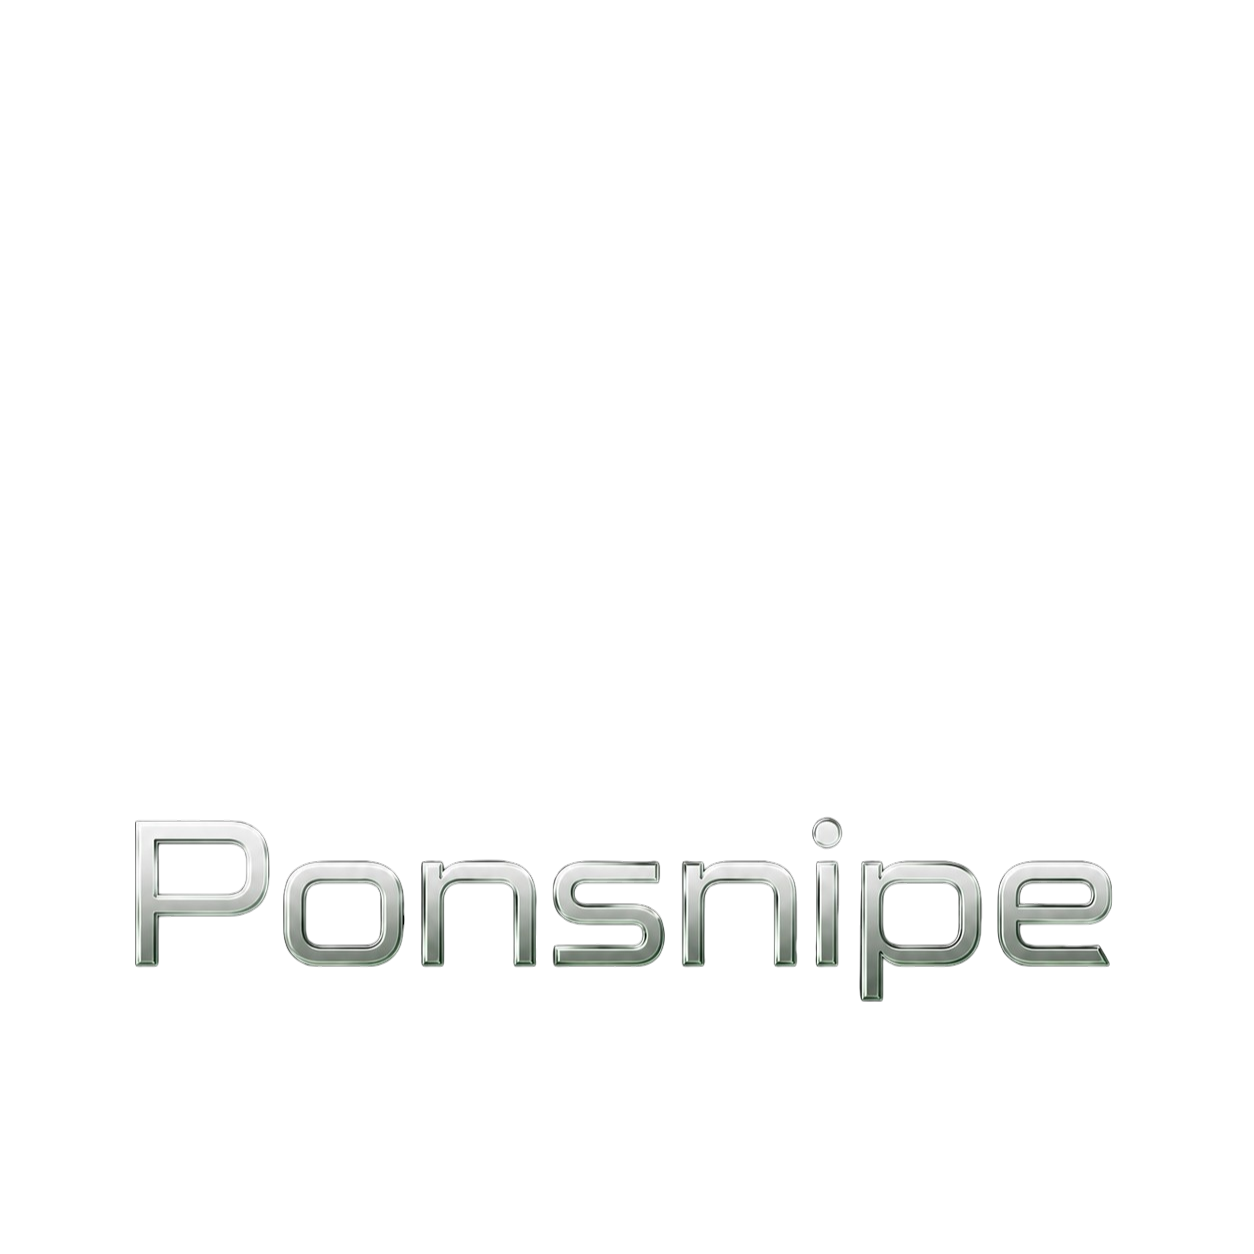
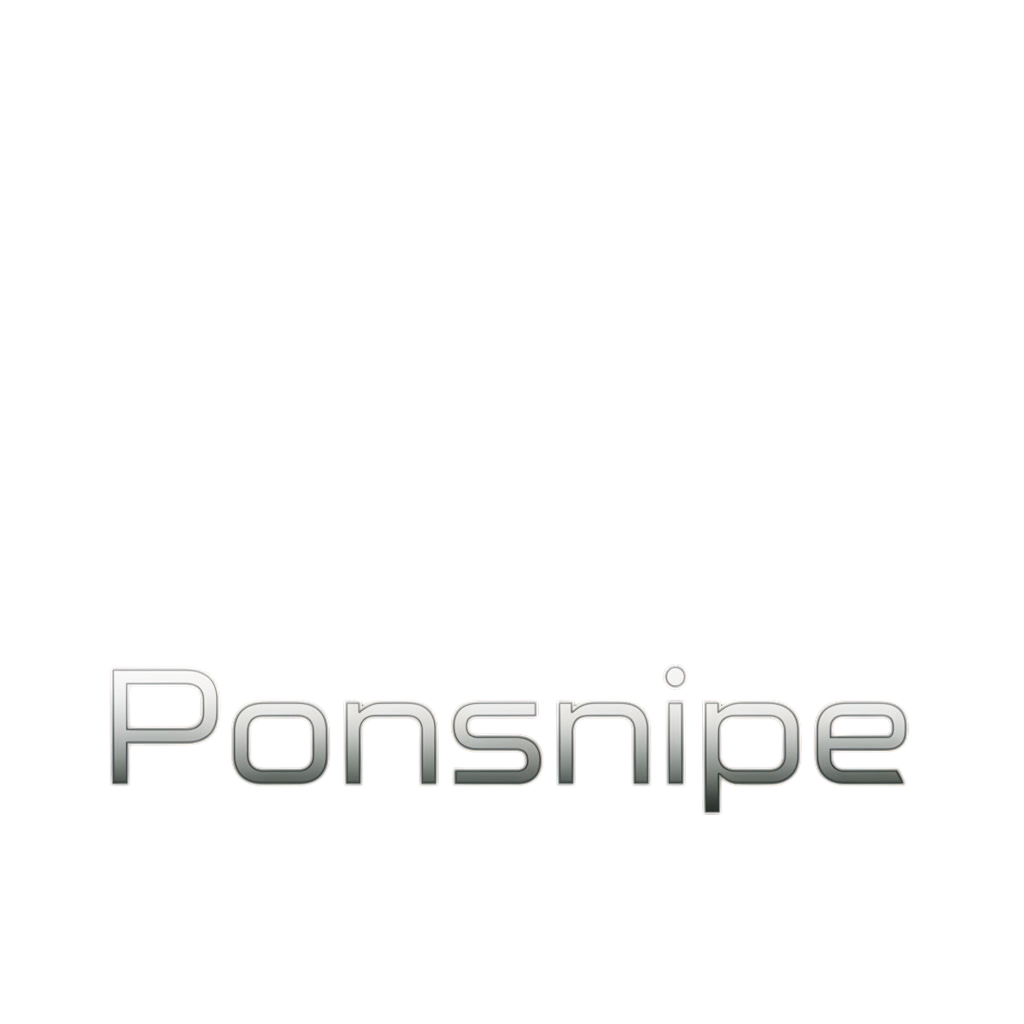
The new wordmark
wordmark3.png folded in as the source, so every reference stays where it
was rather than gaining a 3 on the end for ever.

Regenerated the same way as the rest: alpha bounds found by scanning the
channel rather than by sharp's trim, which left the 1024-square untouched
here, then extracted and resized in a separate instance — trim and
extract are applied before resize regardless of the order they are
chained in, which has caught this project before.

Content is 801x152 of a 1024 square, drawn at 24px tall. 3.2KB and 7.3KB
against a 94KB source. Transparency survives, which is the thing that
matters on a near-black page.

Changed region(s): [[0.0938, 0.6562, 0.9062, 0.8125]]

diff --git a/src/lib/feed/images.ts b/src/lib/feed/images.ts
@@ -133,6 +133,8 @@ async function withSlot<T>(fn: () => Promise<T>): Promise<T> {
   } finally {
     active--;
     waiting.shift()?.();
+    // A freed slot is the only moment the backlog can make progress.
+    pump();
   }
 }
 
@@ -143,18 +145,82 @@ async function withSlot<T>(fn: () => Promise<T>): Promise<T> {
  * them serve, and no theory of mine survives both those numbers. These say
  * which stage is losing them rather than inviting another theory.
  */
-const stats = {
-  asked: 0,
-  fromMemOrDisk: 0,
-  fetched: 0,
-  hardFail: 0,
-  softFail: 0,
-  gaveUpWaiting: 0,
-  blocked: 0,
-  cacheHit: 0,
-};
+/*
+ * globalThis-backed, like everything else here that two module instances can
+ * touch. Without it the sweep and the route each increment their own copy, and
+ * the numbers disagree with each other — the failure map said 615 entries
+ * while the counters claimed 32 failures, which is how this was noticed.
+ */
+interface Stats {
+  asked: number;
+  fromMemOrDisk: number;
+  fetched: number;
+  hardFail: number;
+  softFail: number;
+  gaveUpWaiting: number;
+  blocked: number;
+  cacheHit: number;
+}
+const sg = globalThis as typeof globalThis & { __ponsImgStats?: Stats };
+const stats: Stats =
+  sg.__ponsImgStats ??
+  (sg.__ponsImgStats = {
+    asked: 0,
+    fromMemOrDisk: 0,
+    fetched: 0,
+    hardFail: 0,
+    softFail: 0,
+    gaveUpWaiting: 0,
+    blocked: 0,
+    cacheHit: 0,
+  });
 export function imageStats() {
-  return { ...stats, queued: waiting.length, active, failMapSize: failures().size };
+  return {
+    ...stats,
+    queued: waiting.length,
+    active,
+    backlog: backlog().size,
+    failMapSize: failures().size,
+  };
+}
+
+/**
+ * Logos waiting to be warmed, kept until they are.
+ *
+ * warmImages used to give up on the rest of a batch when the queue was busy,
+ * and a launch is warmed exactly once — when it is indexed. So every coin that
+ * happened to land during a busy moment never had its artwork fetched at all,
+ * and the newest rows, which are the ones anybody actually looks at, were the
+ * ones missing pictures. Dropped work looked like backpressure and was really
+ * just loss.
+ *
+ * Now the busy moment defers rather than discards, and the pump comes back for
+ * them as slots free.
+ */
+const bg = globalThis as typeof globalThis & { __ponsImgBacklog?: Set<string> };
+function backlog(): Set<string> {
+  bg.__ponsImgBacklog ??= new Set();
+  return bg.__ponsImgBacklog;
+}
+/** Bounded, so a feed nobody is watching cannot grow it without limit. */
+const MAX_BACKLOG = 2_000;
+/*
+ * Slots the backlog will not touch.
+ *
+ * Warming is work nobody asked for yet; a viewer looking at the page has. This
+ * keeps a third of the budget free for them, so background work can never be
+ * the reason a visible row has no picture.
+ */
+const RESERVED_FOR_VIEWERS = 8;
+
+function pump(): void {
+  const q = backlog();
+  while (active < MAX_INFLIGHT - RESERVED_FOR_VIEWERS && q.size > 0) {
+    const next = q.values().next().value as string;
+    q.delete(next);
+    if (cached(next) || recentlyFailed(next)) continue;
+    void resolveImage(next).catch(() => {});
+  }
 }
 /** Counted at the route, which is the only place that knows a viewer waited. */
 export function noteImage(k: "asked" | "gaveUpWaiting" | "blocked" | "cacheHit"): void {
@@ -473,9 +539,11 @@ async function fetchImage(raw: string): Promise<CachedImage | null> {
  * should wait, not the request from someone looking at the page right now.
  */
 export function warmImages(logos: (string | null | undefined)[]): void {
+  const q = backlog();
   for (const l of logos) {
-    if (!l || l.length > 512 || cached(l)) continue;
-    if (waiting.length > 8) break;
-    void resolveImage(l).catch(() => {});
+    if (!l || l.length > 512 || cached(l) || recentlyFailed(l)) continue;
+    if (q.size >= MAX_BACKLOG) break;
+    q.add(l);
   }
+  pump();
 }
